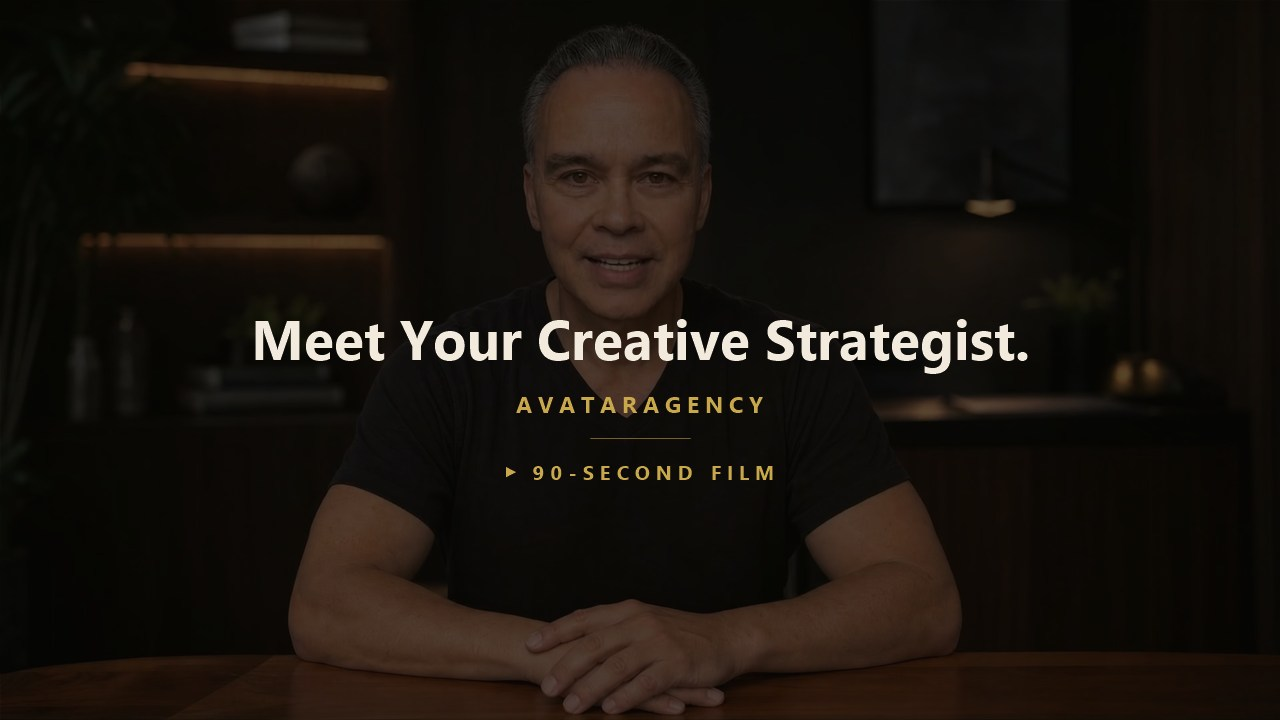
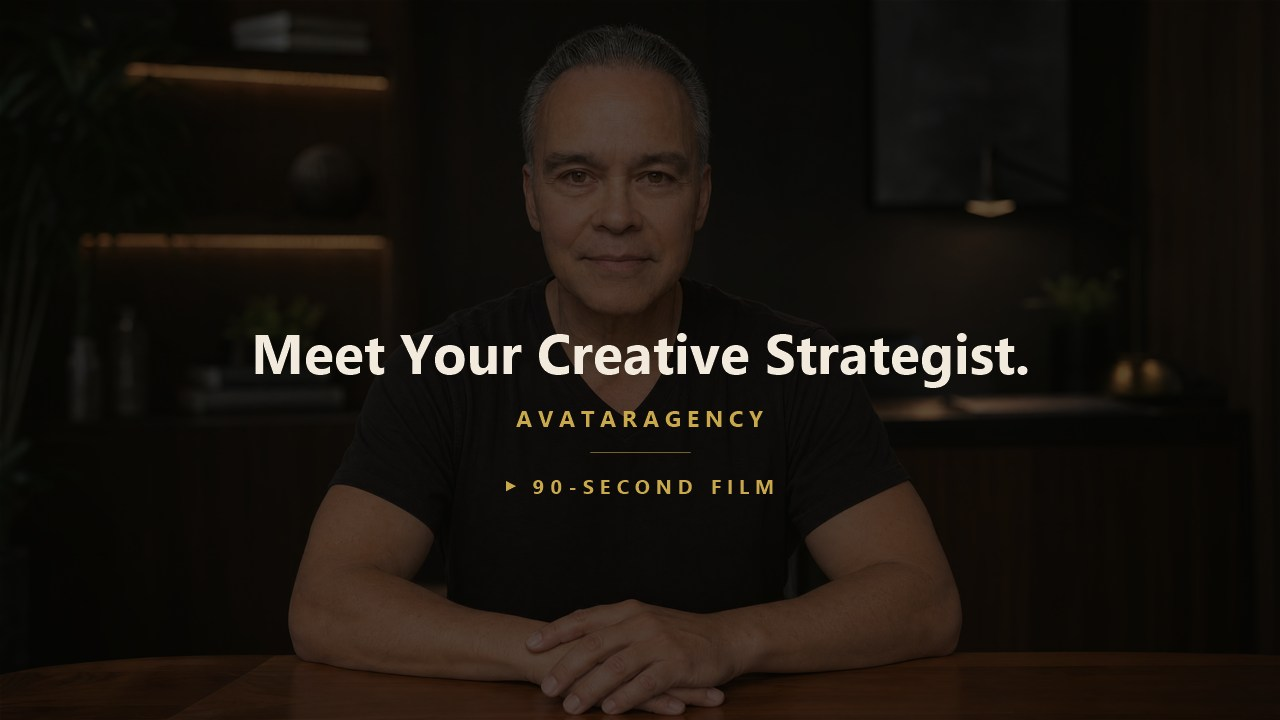
Strategist poster: rebuild on original digital-twin reference image (calm expression, 4K source)

Changed region(s): [[0.1875, 0.4278, 0.8125, 0.55], [0.4062, 0.6417, 0.625, 0.7028], [0.4062, 0.55, 0.5938, 0.6111]]

diff --git a/strategist/index.html b/strategist/index.html
@@ -206,7 +206,7 @@
       </div>
       <div class="hero-video">
         <div class="vsl">
-          <video id="vslPlayer" controls playsinline preload="metadata" poster="vsl-poster.jpg?v=3">
+          <video id="vslPlayer" controls playsinline preload="metadata" poster="vsl-poster.jpg?v=4">
             <source src="vsl.mp4?v=1" type="video/mp4">
           </video>
         </div>
